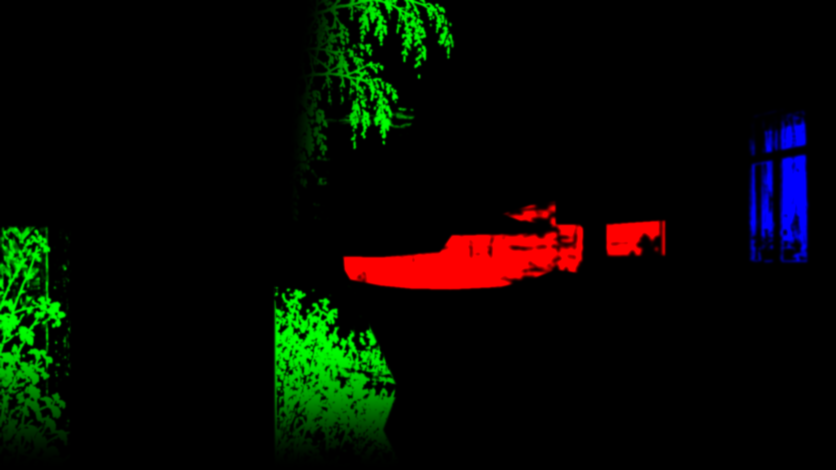
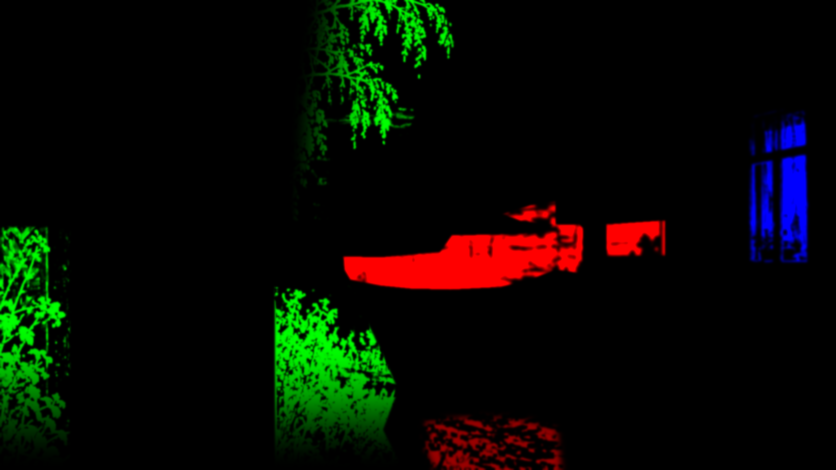
Главное меню (стр. 4): ближняя вода тоже качается — лужи на тропинке у крыльца в маске воды (water_near, слабее реки) [skip ci]
Claude-Session: https://claude.ai/code/session_01Qvdjz1zmfr41cRSvLxvjeK

Changed region(s): [[0.4976, 0.8638, 0.6842, 1.0]]

diff --git a/tools/import_menu_art.py b/tools/import_menu_art.py
@@ -94,6 +94,13 @@ def fx_mask(src: np.ndarray, masks: dict) -> np.ndarray:
     smooth = 1.0 - smoothstep(70.0, 260.0, var)
     water = cv2.GaussianBlur(zone * smooth, (0, 0), 3.0) * cv2.GaussianBlur(zone, (0, 0), 2.0)
     water = np.clip(water * 1.25, 0, 1)
+    # J (Директор 29.10, стр. 4: «ближняя вода тоже качается»): лужи на тропинке у крыльца — свой отбор, мягче (в
+    # них листья и блики заката), и слабее (`water_near_weight`): рябь лужи, не течение реки.
+    if masks.get("water_near"):
+        zn = poly_mask(masks["water_near"], feather=6.0)
+        smooth_n = 1.0 - smoothstep(180.0, 900.0, var)
+        near = cv2.GaussianBlur(zn * smooth_n, (0, 0), 2.0) * float(masks.get("water_near_weight", 0.6))
+        water = np.maximum(water, np.clip(near, 0, 1))
     # Sway: leaves (warm, saturated) and thin twigs (darker than the sky around them) inside each zone; the weight
     # grows with the distance from the anchor (trunk / ground) up to reach_px — tips move, the base does not.
     sway = np.zeros((H, W), np.float32)
